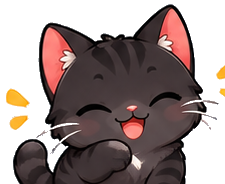
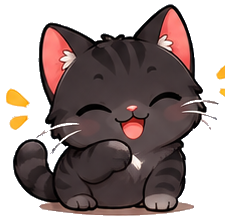
Fix Tabby crop, reduce arena tint, add real game typography
- Tabby (level 2): its extraction was clipped mid-body — the row1
  band there is unusually short and the label-boundary heuristic that
  works for every other sheet cut into its own paws/legs. Hand-tuned
  that level's trim to the sheet's real body/label gap; full cat now
  renders in the drop preview, on the board, and in the Collection
  Book.
- Arena tint dropped from 0.82 to 0.28 alpha — the world background
  (room/jungle/savannah) reads clearly through the play area again
  instead of being washed out, while the opaque score bar and outer
  margin stay full-brightness for contrast.
- Added Baloo 2 (Google Fonts) as the game's real display font in
  place of the generic system sans-serif, with a playful fallback
  chain; BootScene now waits on the webfont (capped at 2.5s so a slow
  connection can never block startup) before building any UI text,
  since Phaser bakes Text objects to a texture at creation time.
- Score/Best now show a small caption over a bold prominent number
  instead of a flat two-line label, and the score/arena panel got
  rounded outer corners (square where the two sections meet) instead
  of sharp rectangles.

diff --git a/src/scenes/GameScene.ts b/src/scenes/GameScene.ts
@@ -5,6 +5,7 @@ import {
   CONTAINER_RIGHT,
   CONTAINER_TOP,
   DANGER_LINE_Y,
+  FONT_FAMILY,
   GAME_HEIGHT,
   GAME_WIDTH,
   HEADER_TEXT_HEIGHT,
@@ -94,8 +95,8 @@ export class GameScene extends Phaser.Scene {
   /** True while a purr-bar tap is being handled, so the same gesture doesn't also commit a drop. */
   private suppressNextDrop = false;
 
-  private scoreText!: Phaser.GameObjects.Text;
-  private bestText!: Phaser.GameObjects.Text;
+  private scoreValueText!: Phaser.GameObjects.Text;
+  private bestValueText!: Phaser.GameObjects.Text;
   private dangerLineGraphics!: Phaser.GameObjects.Graphics;
   private dangerWarningText!: Phaser.GameObjects.Text;
   private gameOverContainer!: Phaser.GameObjects.Container;
@@ -175,7 +176,7 @@ export class GameScene extends Phaser.Scene {
 
     this.dangerWarningText = this.add
       .text(GAME_WIDTH / 2, DANGER_LINE_Y + 8, '', {
-        fontFamily: 'sans-serif',
+        fontFamily: FONT_FAMILY,
         fontSize: '16px',
         color: '#e0463f',
         fontStyle: 'bold',
@@ -187,19 +188,35 @@ export class GameScene extends Phaser.Scene {
     // shows exactly what's about to fall, so a second "next" box was redundant.
     const statsTop = PANEL_TOP + 8;
 
-    this.scoreText = this.add.text(PANEL_LEFT + 10, statsTop, 'SCORE\n0', {
-      fontFamily: 'sans-serif',
-      fontSize: '16px',
+    // Small caption + a bigger bold number reads as a proper stat display instead of a plain
+    // two-line label — the number is the thing worth a glance, so it gets the visual weight.
+    this.add.text(PANEL_LEFT + 10, statsTop, 'SCORE', {
+      fontFamily: FONT_FAMILY,
+      fontSize: '11px',
+      fontStyle: '600',
+      color: '#8a6d4a',
+    });
+    this.scoreValueText = this.add.text(PANEL_LEFT + 10, statsTop + 14, '0', {
+      fontFamily: FONT_FAMILY,
+      fontSize: '22px',
+      fontStyle: '800',
       color: '#3a2b22',
-      align: 'left',
     });
 
-    this.bestText = this.add
-      .text(PANEL_RIGHT - 10, statsTop, `BEST\n${this.score.best}`, {
-        fontFamily: 'sans-serif',
-        fontSize: '16px',
+    this.add
+      .text(PANEL_RIGHT - 10, statsTop, 'BEST', {
+        fontFamily: FONT_FAMILY,
+        fontSize: '11px',
+        fontStyle: '600',
+        color: '#8a6d4a',
+      })
+      .setOrigin(1, 0);
+    this.bestValueText = this.add
+      .text(PANEL_RIGHT - 10, statsTop + 14, `${this.score.best}`, {
+        fontFamily: FONT_FAMILY,
+        fontSize: '22px',
+        fontStyle: '800',
         color: '#3a2b22',
-        align: 'right',
       })
       .setOrigin(1, 0);
 
@@ -373,7 +390,7 @@ export class GameScene extends Phaser.Scene {
     // dark forest to an orange sunset — a plain fill alone only worked against the old flat pink.
     this.add
       .text(GAME_WIDTH / 2, HEADER_TEXT_HEIGHT / 2, '🐱 Cat Kingdom', {
-        fontFamily: 'sans-serif',
+        fontFamily: FONT_FAMILY,
         fontSize: '26px',
         color: '#3a2b22',
         fontStyle: 'bold',
@@ -386,7 +403,7 @@ export class GameScene extends Phaser.Scene {
     // Lion ever created (lifetime, via StatsSystem), tapping into the Collection Book's Stats tab.
     this.crownText = this.add
       .text(30, HEADER_TEXT_HEIGHT / 2, `👑 ${this.stats.get().lionsCreated}`, {
-        fontFamily: 'sans-serif',
+        fontFamily: FONT_FAMILY,
         fontSize: '18px',
         color: '#3a2b22',
         fontStyle: 'bold',
@@ -417,15 +434,29 @@ export class GameScene extends Phaser.Scene {
    */
   private buildPanel() {
     const graphics = this.add.graphics();
+    const radius = 16;
+    const width = PANEL_RIGHT - PANEL_LEFT;
 
+    // Rounded outer corners, square where the score bar meets the arena — a flat seam there
+    // reads as one continuous panel rather than a rounded rect sitting inside another.
     graphics.fillStyle(0xffc93c, 1);
-    graphics.fillRect(PANEL_LEFT, PANEL_TOP, PANEL_RIGHT - PANEL_LEFT, PANEL_DIVIDER_Y - PANEL_TOP);
+    graphics.fillRoundedRect(PANEL_LEFT, PANEL_TOP, width, PANEL_DIVIDER_Y - PANEL_TOP, {
+      tl: radius,
+      tr: radius,
+      bl: 0,
+      br: 0,
+    });
 
-    graphics.fillStyle(0xf5efe4, 0.82);
-    graphics.fillRect(PANEL_LEFT, PANEL_DIVIDER_Y, PANEL_RIGHT - PANEL_LEFT, PANEL_BOTTOM - PANEL_DIVIDER_Y);
+    graphics.fillStyle(0xf5efe4, 0.28);
+    graphics.fillRoundedRect(PANEL_LEFT, PANEL_DIVIDER_Y, width, PANEL_BOTTOM - PANEL_DIVIDER_Y, {
+      tl: 0,
+      tr: 0,
+      bl: radius,
+      br: radius,
+    });
 
     graphics.lineStyle(4, 0x1a1410, 1);
-    graphics.strokeRect(PANEL_LEFT, PANEL_TOP, PANEL_RIGHT - PANEL_LEFT, PANEL_BOTTOM - PANEL_TOP);
+    graphics.strokeRoundedRect(PANEL_LEFT, PANEL_TOP, width, PANEL_BOTTOM - PANEL_TOP, radius);
     graphics.lineBetween(PANEL_LEFT, PANEL_DIVIDER_Y, PANEL_RIGHT, PANEL_DIVIDER_Y);
   }
 
@@ -467,8 +498,8 @@ export class GameScene extends Phaser.Scene {
   }
 
   private refreshScoreText() {
-    this.scoreText.setText(`SCORE\n${this.score.score}`);
-    this.bestText.setText(`BEST\n${this.score.best}`);
+    this.scoreValueText.setText(`${this.score.score}`);
+    this.bestValueText.setText(`${this.score.best}`);
   }
 
   /** Syncs the hovering arena preview to `dropLevel`/`dropIsGolden` — the cat about to be dropped. */
@@ -586,7 +617,7 @@ export class GameScene extends Phaser.Scene {
 
     const title = this.add
       .text(GAME_WIDTH / 2, 40, '📖 Cat Kingdom', {
-        fontFamily: 'sans-serif',
+        fontFamily: FONT_FAMILY,
         fontSize: '20px',
         color: '#fdf6ec',
         fontStyle: 'bold',
@@ -603,7 +634,7 @@ export class GameScene extends Phaser.Scene {
       key: def.key,
       text: this.add
         .text(tabX[i], 74, def.label, {
-          fontFamily: 'sans-serif',
+          fontFamily: FONT_FAMILY,
           fontSize: '15px',
           color: '#c9bdae',
           fontStyle: 'bold',
@@ -617,7 +648,7 @@ export class GameScene extends Phaser.Scene {
 
     const closeHint = this.add
       .text(GAME_WIDTH / 2, GAME_HEIGHT - 24, 'Tap anywhere else to close', {
-        fontFamily: 'sans-serif',
+        fontFamily: FONT_FAMILY,
         fontSize: '14px',
         color: '#c9bdae',
       })
@@ -654,7 +685,7 @@ export class GameScene extends Phaser.Scene {
       const image = this.add.image(x, y, silhouetteTextureKeyForLevel(cat.level));
       const name = this.add
         .text(x, y + cellImageHeight * 0.7, '???', {
-          fontFamily: 'sans-serif',
+          fontFamily: FONT_FAMILY,
           fontSize: '14px',
           color: '#fdf6ec',
         })
@@ -670,7 +701,7 @@ export class GameScene extends Phaser.Scene {
   /** Lifetime totals up top, then a scrollable-free checklist of every achievement (locked ones dimmed, name/desc still shown). */
   private buildStatsTab(): Phaser.GameObjects.Container {
     const summary = this.add.text(GAME_WIDTH / 2, 108, '', {
-      fontFamily: 'sans-serif',
+      fontFamily: FONT_FAMILY,
       fontSize: '13px',
       color: '#fdf6ec',
       align: 'center',
@@ -690,7 +721,7 @@ export class GameScene extends Phaser.Scene {
       const icon = this.add.text(36, y, achievement.icon, { fontSize: '22px' }).setOrigin(0.5);
       const name = this.add
         .text(62, y - 11, achievement.name, {
-          fontFamily: 'sans-serif',
+          fontFamily: FONT_FAMILY,
           fontSize: '15px',
           color: '#fdf6ec',
           fontStyle: 'bold',
@@ -698,7 +729,7 @@ export class GameScene extends Phaser.Scene {
         .setOrigin(0, 0.5);
       const desc = this.add
         .text(62, y + 11, achievement.description, {
-          fontFamily: 'sans-serif',
+          fontFamily: FONT_FAMILY,
           fontSize: '12px',
           color: '#c9bdae',
         })
@@ -717,7 +748,7 @@ export class GameScene extends Phaser.Scene {
   private buildStyleTab(): Phaser.GameObjects.Container {
     const intro = this.add
       .text(GAME_WIDTH / 2, 100, 'Pick your Golden Cat glow color', {
-        fontFamily: 'sans-serif',
+        fontFamily: FONT_FAMILY,
         fontSize: '14px',
         color: '#c9bdae',
       })
@@ -736,7 +767,7 @@ export class GameScene extends Phaser.Scene {
       const circle = this.add.circle(cx, y, 22, option.color, 1).setStrokeStyle(2, 0xfdf6ec, 0.4);
       const name = this.add
         .text(cx + 40, y - 11, option.name, {
-          fontFamily: 'sans-serif',
+          fontFamily: FONT_FAMILY,
           fontSize: '15px',
           color: '#fdf6ec',
           fontStyle: 'bold',
@@ -744,7 +775,7 @@ export class GameScene extends Phaser.Scene {
         .setOrigin(0, 0.5);
       const status = this.add
         .text(cx + 40, y + 11, '', {
-          fontFamily: 'sans-serif',
+          fontFamily: FONT_FAMILY,
           fontSize: '12px',
           color: '#c9bdae',
         })
@@ -925,7 +956,7 @@ export class GameScene extends Phaser.Scene {
     children.push(
       this.add
         .text(-width / 2 + 62, -15, eyebrow, {
-          fontFamily: 'sans-serif',
+          fontFamily: FONT_FAMILY,
           fontSize: '11px',
           color: accentHex,
           fontStyle: 'bold',
@@ -933,7 +964,7 @@ export class GameScene extends Phaser.Scene {
         .setOrigin(0, 0.5),
       this.add
         .text(-width / 2 + 62, 12, title, {
-          fontFamily: 'sans-serif',
+          fontFamily: FONT_FAMILY,
           fontSize: '19px',
           color: '#fdf6ec',
           fontStyle: 'bold',
@@ -987,7 +1018,7 @@ export class GameScene extends Phaser.Scene {
 
     const title = this.add
       .text(GAME_WIDTH / 2, GAME_HEIGHT / 2, '👑 THE KING HAS ARRIVED 👑', {
-        fontFamily: 'sans-serif',
+        fontFamily: FONT_FAMILY,
         fontSize: '22px',
         color: '#ffd873',
         fontStyle: 'bold',
@@ -1077,7 +1108,7 @@ export class GameScene extends Phaser.Scene {
   private showComboPopup(combo: number, x: number, y: number) {
     const text = this.add
       .text(x, y - 10, comboLabel(combo), {
-        fontFamily: 'sans-serif',
+        fontFamily: FONT_FAMILY,
         fontSize: '23px',
         color: '#ff6f3c',
         fontStyle: 'bold',
@@ -1149,7 +1180,7 @@ export class GameScene extends Phaser.Scene {
 
     const text = this.add
       .text(GAME_WIDTH / 2, CONTAINER_TOP + 60, `CLUTCH SAVE! +${CLUTCH_SAVE_BONUS}`, {
-        fontFamily: 'sans-serif',
+        fontFamily: FONT_FAMILY,
         fontSize: '25px',
         color: '#2ecc71',
         fontStyle: 'bold',
@@ -1182,7 +1213,7 @@ export class GameScene extends Phaser.Scene {
 
     const title = this.add
       .text(GAME_WIDTH / 2, GAME_HEIGHT / 2 - 130, 'CAT-ASTROPHE!', {
-        fontFamily: 'sans-serif',
+        fontFamily: FONT_FAMILY,
         fontSize: '30px',
         color: '#ffffff',
         fontStyle: 'bold',
@@ -1194,7 +1225,7 @@ export class GameScene extends Phaser.Scene {
 
     this.finalScoreText = this.add
       .text(GAME_WIDTH / 2, GAME_HEIGHT / 2 + 50, '', {
-        fontFamily: 'sans-serif',
+        fontFamily: FONT_FAMILY,
         fontSize: '20px',
         color: '#ffffff',
         align: 'center',
@@ -1203,7 +1234,7 @@ export class GameScene extends Phaser.Scene {
 
     const restartHint = this.add
       .text(GAME_WIDTH / 2, GAME_HEIGHT / 2 + 115, 'Tap to try again', {
-        fontFamily: 'sans-serif',
+        fontFamily: FONT_FAMILY,
         fontSize: '18px',
         color: '#f7ecd9',
       })

diff --git a/src/scenes/BootScene.ts b/src/scenes/BootScene.ts
@@ -1,5 +1,5 @@
 import Phaser from 'phaser';
-import { GAME_HEIGHT, GAME_WIDTH } from '../config/gameConfig';
+import { FONT_FAMILY, GAME_HEIGHT, GAME_WIDTH } from '../config/gameConfig';
 import { CAT_LEVELS, GOLDEN_GLOW_TEXTURE, silhouetteTextureKeyForLevel, textureKeyForLevel } from '../config/catData';
 import { WORLD_ZONES, backgroundTextureKeyForZone } from '../config/worldZones';
 import { animFrameTextureKey, framesForLevel } from '../config/catAnimations';
@@ -43,11 +43,26 @@ export class BootScene extends Phaser.Scene {
     }
   }
 
-  create() {
+  async create() {
     this.loadingBarBg.destroy();
     this.loadingBarFill.destroy();
     this.buildGoldenGlowTexture();
+    // Phaser bakes Text objects to a texture at creation time — starting the Game scene before
+    // the webfont resolves would freeze every label onto the system fallback font permanently,
+    // not just for one frame. Race against a timeout so a slow/unavailable font API can never
+    // block the game from starting at all.
+    await Promise.race([this.waitForFont(), new Promise((resolve) => this.time.delayedCall(2500, resolve))]);
     this.scene.start('Game');
+  }
+
+  private async waitForFont() {
+    try {
+      await document.fonts.load('700 32px "Baloo 2"');
+      await document.fonts.ready;
+    } catch {
+      // Web Font Loading API can be unavailable/unreliable in some contexts (older browsers,
+      // privacy modes) — fall through and start with whatever font already resolved.
+    }
   }
 
   /** A soft white radial gradient, tinted gold and additively blended wherever it's used (see Cat.ts). */
@@ -73,7 +88,7 @@ export class BootScene extends Phaser.Scene {
   private buildLoadingBar() {
     this.add
       .text(GAME_WIDTH / 2, GAME_HEIGHT / 2 - 30, 'Loading the Kingdom...', {
-        fontFamily: 'sans-serif',
+        fontFamily: FONT_FAMILY,
         fontSize: '14px',
         color: '#3a2b22',
       })

diff --git a/src/config/gameConfig.ts b/src/config/gameConfig.ts
@@ -40,3 +40,11 @@ export const MATTER_CONFIG = {
   gravity: { x: 0, y: 1 },
   debug: false,
 };
+
+/**
+ * Rounded, playful display face (loaded via Google Fonts in index.html) in place of the generic
+ * system sans-serif every text object used before — matches the game's illustrated-character art
+ * a lot better. "Comic Sans MS" sits as an intermediate fallback (still playful/rounded) in case
+ * the webfont hasn't finished loading somehow; BootScene waits on it before building any UI text.
+ */
+export const FONT_FAMILY = '"Baloo 2", "Comic Sans MS", sans-serif';

diff --git a/index.html b/index.html
@@ -10,6 +10,12 @@
     <meta name="mobile-web-app-capable" content="yes" />
     <meta name="apple-mobile-web-app-capable" content="yes" />
     <meta name="apple-mobile-web-app-status-bar-style" content="black-translucent" />
+    <link rel="preconnect" href="https://fonts.googleapis.com" />
+    <link rel="preconnect" href="https://fonts.gstatic.com" crossorigin />
+    <link
+      href="https://fonts.googleapis.com/css2?family=Baloo+2:wght@500;600;700;800&display=swap"
+      rel="stylesheet"
+    />
     <title>Cat Kingdom</title>
   </head>
   <body>

diff --git a/assets-source/extract_frames.py b/assets-source/extract_frames.py
@@ -121,6 +121,10 @@ def connected_components(mask):
 
 
 LABEL_FRACTION = 0.18
+# Tabby's row1 band is unusually short and its "Paw Up"-style poses sit closer to the label
+# pill than other sheets — the default fraction cropped off a chunk of the cat's own lower body.
+# The real gap there was hand-verified at ~99.5% of the band instead.
+LABEL_FRACTION_OVERRIDE = {2: 0.005}
 
 
 # The Lion's golden mane sits too close in color to its own warm cream+paw-print
@@ -170,7 +174,7 @@ def process(level, filename):
             raise RuntimeError(f'level {level}: no substantial band after hero: {bands}')
         row1_band = min(later, key=lambda b: b[0])
         y0, y1_full = row1_band
-        y1 = y0 + round((y1_full - y0) * (1 - LABEL_FRACTION))
+        y1 = y0 + round((y1_full - y0) * (1 - LABEL_FRACTION_OVERRIDE.get(level, LABEL_FRACTION)))
 
         mask = detect_alpha[y0:y1, :] > 10
         comps = [c for c in connected_components(mask) if c[0] > 200]
